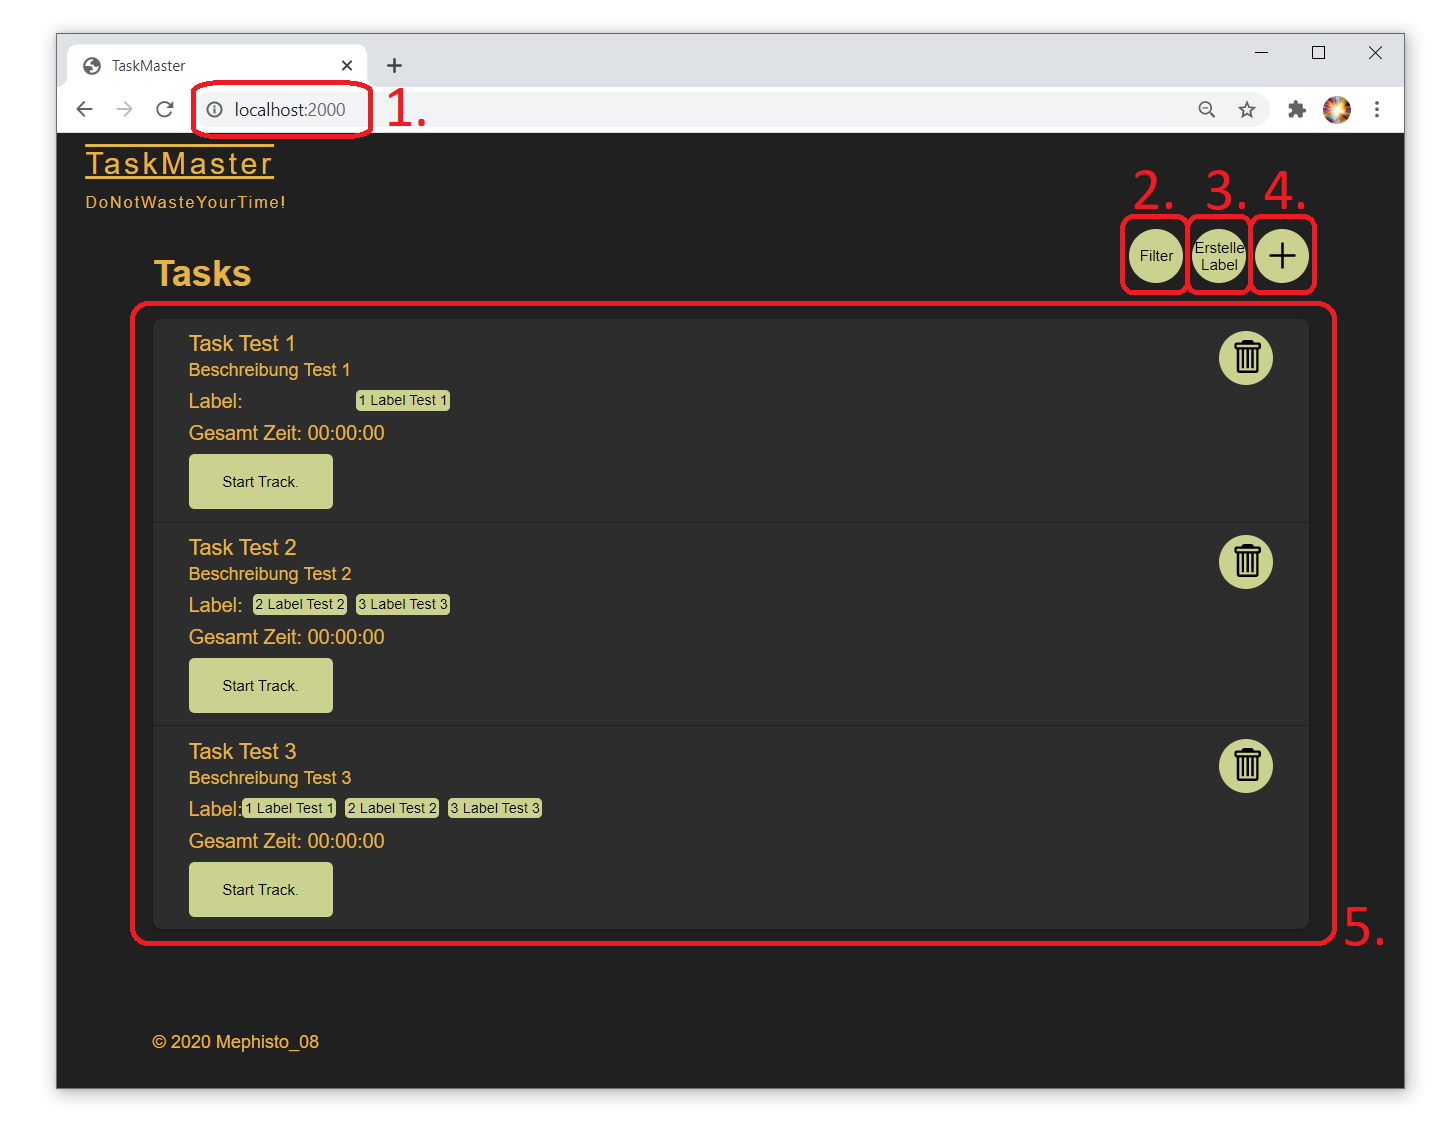
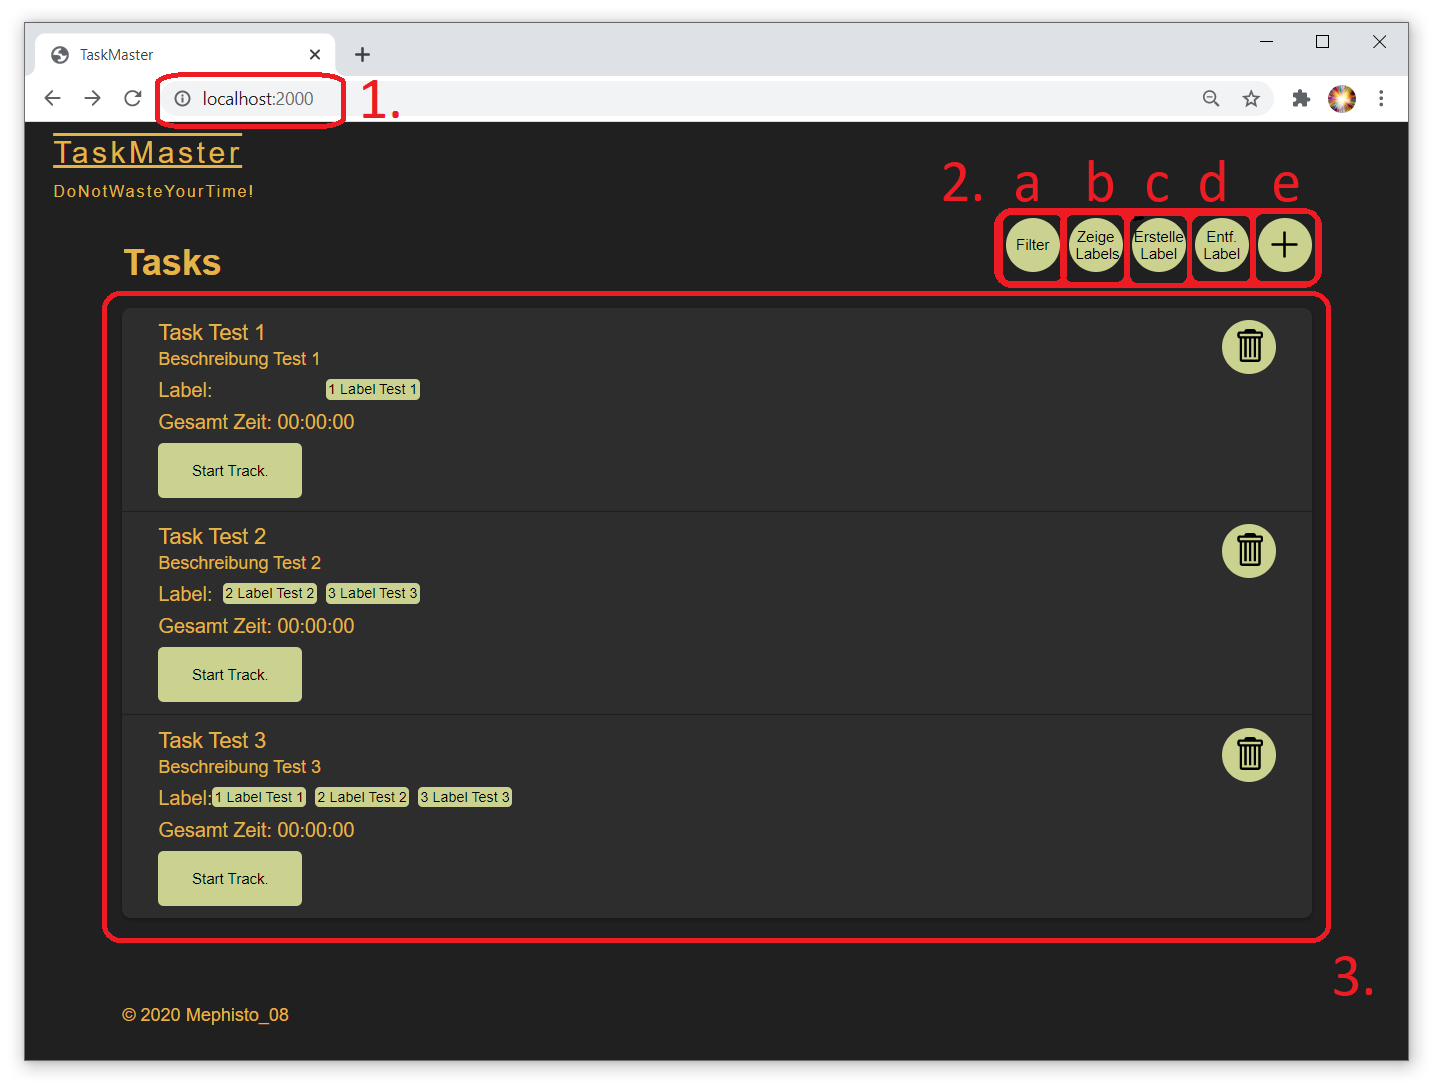
Verbesserungen bei Bild

diff --git a/packages/frontend/src/pages/Dashboard/TaskOverviewPage.tsx b/packages/frontend/src/pages/Dashboard/TaskOverviewPage.tsx
@@ -17,7 +17,9 @@ import {
 import {
   AddButton,
   CreateLabelButton,
+  DeleteLabelsButton,
   FilterButton,
+  ShowLabelButton,
 } from "../../components/Button";
 import {CreateTaskForm} from "./components/createTask";
 import {Layout} from "../../components/Layout";
@@ -25,15 +27,19 @@ import {useHistory} from "react-router-dom";
 import {Modal} from "../../components/Modal";
 import {CreateLabelForm} from "./components/createLabel";
 import {FilterForm} from "./components/filter";
+import { ShowAllLabelForm } from "../TaskDetailPage/components/showAllLabel";
+import { DeleteLabelForm } from "./components/deleteLabel";
 
 
 export const TaskOverviewPage = () => {
   const [allTask, setTask] = useState<Task[]>([]);
-  const [addTask, setAddTask] = useState(false);
-  const [addLabel, setAddLabel] = useState(false);
+  const [createTask, setCreateTask] = useState(false);
+  const [createLabel, setCreateLabel] = useState(false);
   const [taskFilter, setTaskFilter] = useState({ taskName: "", taskDescription: "", taskLabel: "" });
   const [filter, setFilter] = useState(false);
   const [taskTrackingId, setTaskTrackingId] = useState(-1);
+  const [showLabel, setShowLabel] = useState(false);
+  const [deleteLabel, setDeleteLabel] = useState(false);
   let history = useHistory();
 
   /**
@@ -78,13 +84,24 @@ export const TaskOverviewPage = () => {
             `}
         >
           <FilterButton onClick={() => {
+            setShowLabel(false);
             setFilter(!filter);
           }} />
+          <ShowLabelButton
+            onClick={() => {
+            setShowLabel(!showLabel);
+          }}/>
           <CreateLabelButton onClick={() => {
-            setAddLabel(!addLabel);
+            setShowLabel(false);
+            setCreateLabel(!createLabel);
+          }} />
+          <DeleteLabelsButton onClick={() => {
+            setShowLabel(false);
+            setDeleteLabel(!deleteLabel);
           }} />
           <AddButton onClick={() => {
-            setAddTask(!addTask);
+            setShowLabel(false);
+            setCreateTask(!createTask);
           }} />
         </div>
       </div>
@@ -102,31 +119,52 @@ export const TaskOverviewPage = () => {
         />
       </Modal>
       )}
-      {addLabel && (<Modal
+      {createLabel && (<Modal
         title="Label erstellen"
         onCancel={() => {
-          setAddLabel(false);
+          setCreateLabel(false);
         }}>
         <CreateLabelForm
           afterSubmit={() => {
-            setAddLabel(false);
+            setCreateLabel(false);
             fetchTask();
           }}
         />
       </Modal>
       )}
-      {addTask && (<Modal
-        title="Task erstellen"
+      {deleteLabel && (<Modal
+        title="Label löschen"
         onCancel={() => {
-          setAddTask(false);
+          setDeleteLabel(false);
         }}>
-        <CreateTaskForm
+        <DeleteLabelForm
           afterSubmit={() => {
-            setAddTask(false);
+            setDeleteLabel(false);
             fetchTask();
           }}
         />
       </Modal>
+      )}
+      {createTask && (<Modal
+        title="Task erstellen"
+        onCancel={() => {
+          setCreateTask(false);
+        }}>
+        <CreateTaskForm
+          afterSubmit={() => {
+            setCreateTask(false);
+            fetchTask();
+          }}
+        />
+      </Modal>
+      )}
+      {showLabel && (
+        <ShowAllLabelForm
+          afterSubmit={() => {
+            setShowLabel(false);
+            fetchTask();
+          }}
+        />
       )}
       <TaskList>
         {allTask.map((allTask) => (

diff --git a/packages/frontend/src/pages/TaskDetailPage/taskPage.tsx b/packages/frontend/src/pages/TaskDetailPage/taskPage.tsx
@@ -12,7 +12,7 @@ import {useParams} from "react-router-dom";
 import {Task, LabelItem, TrackedTime, LabelList, Label, TaskDescription, formatTime} from "../Dashboard/components/taskList";
 import {Layout} from "../../components/Layout";
 import {Tracking, TrackingItem, TrackingList} from "./components/trackingList";
-import {AddButton, AddLabelButton, DeleteLabelButton, EditButton, ShowLabelButton} from "../../components/Button";
+import {AddButton, AddLabelButton, DeleteLabelsButton, EditButton, ShowLabelButton} from "../../components/Button";
 import {EditTaskForm} from "./components/editTask";
 import {CreateTrackingForm} from "./components/createTracking";
 import {AddLabelToTaskForm} from "./components/addLabelToTask";
@@ -25,7 +25,7 @@ export const TaskPageID = () => {
   const [task, setTask] = useState<Task>();
   const [editTask, setEditTask] = useState(false);
   const [addLabelToTask, setAddLabelToTask] = useState(false);
-  const [deleteLabelToTask, setDeleteLabelToTask] = useState(false);
+  const [deleteLabelFromTask, setDeleteLabelToTask] = useState(false);
   const [showLabel, setShowLabel] = useState(false);
   const [createTracking, setCreateTracking] = useState(false);
 
@@ -67,26 +67,46 @@ export const TaskPageID = () => {
     <Layout>
       <AddButton
         onClick={() => {
+          setDeleteLabelToTask(false);
+          setAddLabelToTask(false);
+          setShowLabel(false);
+          setEditTask(false);
           setCreateTracking(!createTracking);
         }}
       ></AddButton>
-      <DeleteLabelButton
+      <DeleteLabelsButton
         onClick={() => {
-          setDeleteLabelToTask(!deleteLabelToTask);
+          setCreateTracking(false);
+          setAddLabelToTask(false);
+          setShowLabel(false);
+          setEditTask(false);
+          setDeleteLabelToTask(!deleteLabelFromTask);
         }}
-      ></DeleteLabelButton>
+      ></DeleteLabelsButton>
       <AddLabelButton
         onClick={() => {
+          setDeleteLabelToTask(false);
+          setCreateTracking(false);
+          setShowLabel(false);
+          setEditTask(false);
           setAddLabelToTask(!addLabelToTask);
         }}
       ></AddLabelButton>
       <ShowLabelButton
         onClick={() => {
+          setDeleteLabelToTask(false);
+          setAddLabelToTask(false);
+          setCreateTracking(false);
+          setEditTask(false);
           setShowLabel(!showLabel);
         }}
       ></ShowLabelButton>
       <EditButton
         onClick={() => {
+          setDeleteLabelToTask(false);
+          setAddLabelToTask(false);
+          setShowLabel(false);
+          setCreateTracking(false);
           setEditTask(!editTask);
         }}
       ></EditButton>
@@ -142,7 +162,7 @@ export const TaskPageID = () => {
           taskObject={task!}
         />
       )}
-      {deleteLabelToTask && (
+      {deleteLabelFromTask && (
         <DeleteLabelFromTaskForm
           afterSubmit={() => {
             setDeleteLabelToTask(false);

diff --git a/packages/frontend/src/pages/Dashboard/components/deleteLabel.tsx b/packages/frontend/src/pages/Dashboard/components/deleteLabel.tsx
@@ -1,0 +1,48 @@
+/**
+ * In dieser Datei, wird alles bereitgestellt,
+ * um ein label zu löschen.
+ */
+import React, { useState, ChangeEvent } from "react";
+import { Input } from "../../../components/Input";
+import { Button20rem } from "../../../components/Button";
+
+interface EditTrackingFormState {
+  id: number;
+}
+
+export const DeleteLabelForm: React.FC<{ afterSubmit: () => void }> = ({
+  afterSubmit,
+}) => {
+    const [values, setValues] = useState({
+        id: "",
+      });
+
+  const fieldDidChange = (e: ChangeEvent<HTMLInputElement>) => {
+    setValues({ ...values, [e.target.name]: e.target.value });
+  };
+  const onSubmitForm = async (e: React.FormEvent<HTMLFormElement>) => {
+    e.preventDefault();
+
+    await fetch(`/api/label/${values.id}`, {
+      method: "DELETE",
+      headers: { "Content-Type": "application/json" },
+      body: JSON.stringify({
+      }),
+    });
+    afterSubmit();
+  };
+  return (
+    <>
+      <form onSubmit={onSubmitForm}>
+        <Input
+          name="id"
+          label="Label Id"
+          type="text"
+          onChange={fieldDidChange}
+          required
+        />
+        <Button20rem type="submit">Lösche Label/s von diesem Task!</Button20rem>
+      </form>
+    </>
+  );
+};

diff --git a/packages/frontend/src/components/Button.tsx b/packages/frontend/src/components/Button.tsx
@@ -162,6 +162,27 @@ export const DeleteButton = (
   );
 };
 
+export const DeleteLabelsButton = (
+  props: React.ButtonHTMLAttributes<HTMLButtonElement>
+) => {
+  const StyledButton = styled.button`
+    margin-left: 0.5rem;
+    width: 48px;
+    border: 0px;
+    height: 48px;
+    justify-content: center;
+    align-items: center;
+    border-radius: 50%;
+    float: right;
+    background-color: ${(props) => props.theme.colors.primary};
+  `;
+  return (
+    <StyledButton {...props}>
+      Entf. Label
+    </StyledButton>
+  );
+};
+
 export const DeleteLabelButton = (
   props: React.ButtonHTMLAttributes<HTMLButtonElement>
 ) => {
@@ -182,7 +203,6 @@ export const DeleteLabelButton = (
     </StyledButton>
   );
 };
-
 export const EditButton = (
   props: React.ButtonHTMLAttributes<HTMLButtonElement>
 ) => {

diff --git a/packages/frontend/src/pages/Dashboard/components/taskList.tsx b/packages/frontend/src/pages/Dashboard/components/taskList.tsx
@@ -86,6 +86,7 @@ export const TaskItemStyle = styled.div`
 `;
 
 export const TaskList = styled.div`
+  clear:both;
   list-style: none;
   box-shadow: 0 0.125em 0.25em 0 ${(props) => props.theme.colors.shadowColor};
   width: 100%;
